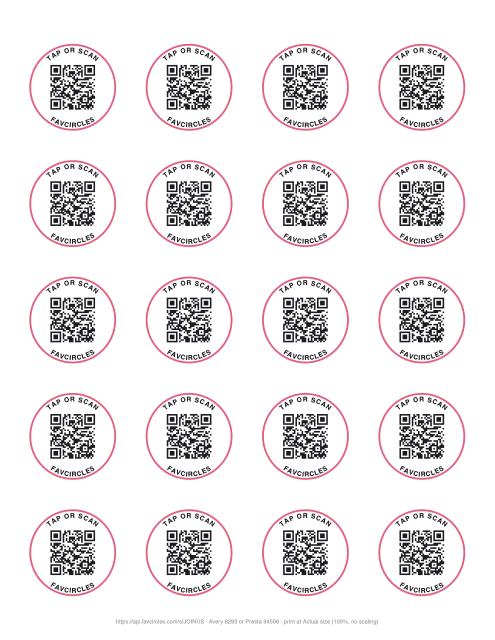
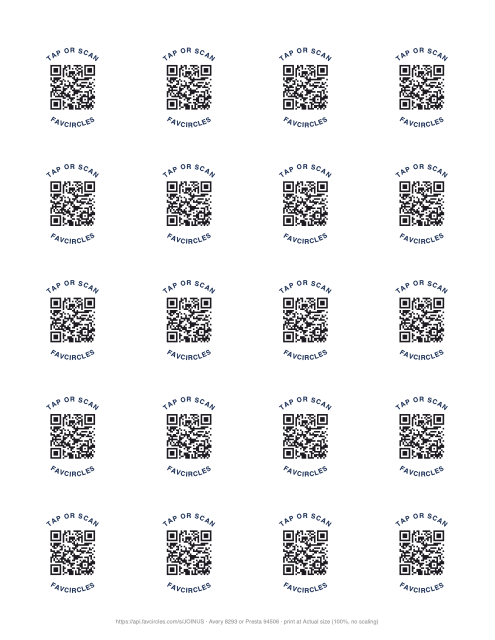
Totem QR label: no ring, words in navy (Wes, 2026-11-24: "do the writing in a different color and get rid of the red ring")
Claude-Session: https://claude.ai/code/session_01GsRjBQZ1WcwjiqZTcAHJ56

diff --git a/backend/services/roundLabelArt.js b/backend/services/roundLabelArt.js
@@ -1,7 +1,9 @@
 // Round QR labels with words running round the edge (Wes, 2026-11-24).
 //
-// The Totem label: a 1½ in circle, "TAP OR SCAN" over the top, the code in the
-// middle, the store's name round the bottom. One drawing, used by the app's
+// The Totem label: a plain white 1½ in circle, "TAP OR SCAN" over the top, the
+// code in the middle, the store's name round the bottom; the words in navy, no
+// ring (Wes, 2026-11-24: "do the writing in a different color and get rid of
+// the red ring"). One drawing, used by the app's
 // "Totem QR labels" sheet (printAssetService) and by the Mac scripts
 // (Marketing/mascot/favvy-print/make-label.js). The table-sticker mock-ups
 // (Marketing/table-sticker/make.js) use arcText from here too.
@@ -14,11 +16,9 @@ const MM = 72 / 25.4;
 const TOTEM_LABEL = {
   diameter: 38.1 * MM,        // 1½ in, Avery 8293 / Presta 94506
   qr: 19.5 * MM,              // dark modules span this, centred on the label
-  ringInset: 0.5 * MM,        // pink ring's centre line, in from the cut edge
-  ringWidth: 0.8 * MM,
-  // The words live in a band between the code's corners and the ring:
-  // 15.3 mm to 17.4 mm from the centre (the corners reach 13.8 mm, the ring
-  // starts at 18.15 mm, the cut edge is at 19.05 mm).
+  // The words live in a band between the code's corners and the cut edge:
+  // 15.3 mm to 17.4 mm from the centre (the corners reach 13.8 mm, the cut
+  // edge is at 19.05 mm, so a sheet printed 1 mm off still keeps its words).
   bandInner: 15.3 * MM,
   bandOuter: 17.4 * MM,
   font: 'Helvetica-Bold',
@@ -29,8 +29,8 @@ const TOTEM_LABEL = {
   topMaxAngle: 50,            // degrees either side of the top
   nameMaxAngle: 62,           // degrees either side of the bottom
   noName: 'FAVCIRCLES',       // a label that belongs to no store
-  pink: '#f4567f',
-  ink: '#1d1b22'
+  words: '#1A365D',           // navy, the Totem's Dark Blue
+  ink: '#1d1b22'              // the code stays near-black: it has to scan
 };
 
 const ELLIPSIS = '…';
@@ -135,7 +135,7 @@ function totemNameLine(doc, name) {
 }
 
 /**
- * One Totem label centred on (cx, cy): white circle, pink ring, "TAP OR SCAN"
+ * One Totem label centred on (cx, cy): white circle, "TAP OR SCAN"
  * round the top, the code for `url`, the store's name round the bottom.
  */
 function drawTotemLabel(doc, cx, cy, url, name) {
@@ -143,16 +143,15 @@ function drawTotemLabel(doc, cx, cy, url, name) {
   const r = L.diameter / 2;
   doc.save();
   doc.circle(cx, cy, r).fill('#FFFFFF');
-  doc.circle(cx, cy, r - L.ringInset).lineWidth(L.ringWidth).strokeColor(L.pink).stroke();
   const modules = QRCode.create(url, { errorCorrectionLevel: 'M' }).modules;
   drawModules(doc, modules, cx - L.qr / 2, cy - L.qr / 2, L.qr, L.ink);
   const top = fitArcText(L.top, {
     measure: measureWith(doc, L.font), radius: L.bandInner, maxAngle: L.topMaxAngle,
     size: L.size, minSize: L.minSize, spacing: L.spacing
   });
-  arcText(doc, top.text, cx, cy, L.bandInner, { font: L.font, size: top.size, color: L.ink, spacing: L.spacing });
+  arcText(doc, top.text, cx, cy, L.bandInner, { font: L.font, size: top.size, color: L.words, spacing: L.spacing });
   const bottom = totemNameLine(doc, name);
-  arcText(doc, bottom.text, cx, cy, L.bandOuter, { font: L.font, size: bottom.size, color: L.ink, bottom: true, spacing: L.spacing });
+  arcText(doc, bottom.text, cx, cy, L.bandOuter, { font: L.font, size: bottom.size, color: L.words, bottom: true, spacing: L.spacing });
   doc.restore();
   return { modules: modules.size, name: bottom.text, nameSize: bottom.size };
 }

diff --git a/backend/services/__tests__/roundLabelArt.test.js b/backend/services/__tests__/roundLabelArt.test.js
@@ -43,12 +43,11 @@ describe('roundLabelArt', () => {
     expect(art.arcLength(measure(one.text, 5), 0)).toBeLessThanOrEqual(room);
   });
 
-  test('the Totem label keeps its words clear of the code and inside the ring', () => {
+  test('the Totem label keeps its words clear of the code and in from the cut edge', () => {
     const L = art.TOTEM_LABEL;
     const corner = L.qr / Math.SQRT2;
     const module33 = L.qr / 33; // a store link is a 33 × 33 code
     expect(L.bandInner - corner).toBeGreaterThanOrEqual(2 * module33); // two quiet modules at the corners
-    expect(L.bandOuter).toBeLessThanOrEqual(L.diameter / 2 - L.ringInset - L.ringWidth / 2 - 0.5 * art.MM);
     expect(L.diameter / 2 - L.bandOuter).toBeGreaterThanOrEqual(1.5 * art.MM); // type stays 1.5 mm in from the cut
     // Top and bottom words cannot run into each other
     expect(L.topMaxAngle + L.nameMaxAngle).toBeLessThan(180 - 20);
@@ -65,5 +64,11 @@ describe('roundLabelArt', () => {
     expect(long.nameSize).toBeLessThan(art.TOTEM_LABEL.size);
     expect(draw('Tommy\'s Tavern + Tap Morristown New Jersey').name).toBe('TOMMY\'S TAVERN + TAP…');
     doc.end();
+  });
+
+  test('the Totem label has no ring, and its words are not the code\'s colour', () => {
+    const L = art.TOTEM_LABEL;
+    expect(L.ringWidth).toBeUndefined();
+    expect(L.words).not.toBe(L.ink);
   });
 });

diff --git a/Marketing/mascot/favcircles-totem.html b/Marketing/mascot/favcircles-totem.html
@@ -163,7 +163,6 @@ function labelTexture() {
   const c = document.createElement('canvas'); c.width = c.height = 512;
   const g = c.getContext('2d');
   g.fillStyle = '#fff'; g.beginPath(); g.arc(256, 256, 256, 0, Math.PI * 2); g.fill();
-  g.strokeStyle = '#f0607f'; g.lineWidth = 12; g.beginPath(); g.arc(256, 256, 248, 0, Math.PI * 2); g.stroke();
   if (window.qrcode) {
     const q = qrcode(0, 'M'); q.addData('https://api.favcircles.com/s/JOINUS?t=favvy'); q.make();
     const n = q.getModuleCount(), size = 262, m = size / n, x0 = 256 - size / 2, y0 = 256 - size / 2;
@@ -172,7 +171,7 @@ function labelTexture() {
   }
   // Words round the edge, as on the printed label (backend/services/roundLabelArt.js):
   // TAP OR SCAN over the top, the store's name (FAVCIRCLES here) round the bottom
-  g.fillStyle = '#1d1b22'; g.font = '700 39px Helvetica, Arial, sans-serif'; g.textAlign = 'center'; g.textBaseline = 'alphabetic';
+  g.fillStyle = '#1A365D'; g.font = '700 39px Helvetica, Arial, sans-serif'; g.textAlign = 'center'; g.textBaseline = 'alphabetic';
   const arc = (text, r, bottom) => {
     const gap = 3.4, w = [...text].map((ch) => g.measureText(ch).width + gap);
     let at = -(w.reduce((a, b) => a + b, 0) - gap) / 2;

diff --git a/backend/services/printAssetService.js b/backend/services/printAssetService.js
@@ -490,8 +490,8 @@ async function renderStoreStickers(venues, { kind = 'window', startAt = 1 } = {}
 // Letter). The label sits over the base's NFC sticker, so its link is the same
 // one the sticker carries: the window code + ?t=totem (the "Totem" Points
 // sticker's tag). The drawing is services/roundLabelArt.js, shared with the Mac
-// scripts: pink ring, "TAP OR SCAN" round the top, the code, the store's name
-// round the bottom (Wes, 2026-11-24). The name also prints small under each
+// scripts: "TAP OR SCAN" round the top, the code, the store's name round the
+// bottom, words in navy, no ring (Wes, 2026-11-24). The name also prints small under each
 // label, on the backing that peels away, in full.
 const TOTEM_TAG = 'totem';
 const TOTEM_SHEET = { label: 'Avery 8293 or Presta 94506 (1½ in round, 20 per sheet)', diameter: roundLabelArt.TOTEM_LABEL.diameter,

diff --git a/Marketing/mascot/favvy-print/make-label.js b/Marketing/mascot/favvy-print/make-label.js
@@ -1,7 +1,7 @@
 #!/usr/bin/env node
 // The round QR label that goes over the NFC sticker on a Totem's base (or in a
 // Favvy figure's recess): "TAP OR SCAN" round the top, the code, the store's
-// name round the bottom, FavCircles pink ring (Wes, 2026-11-24). The drawing is
+// name round the bottom, words in navy, no ring (Wes, 2026-11-24). The drawing is
 // backend/services/roundLabelArt.js, the same one the app's "Totem QR labels"
 // sheet prints. Writes:
 //   <out>/label.pdf   one label, exact size (for Sticker Mule: 1.5 in circle)
